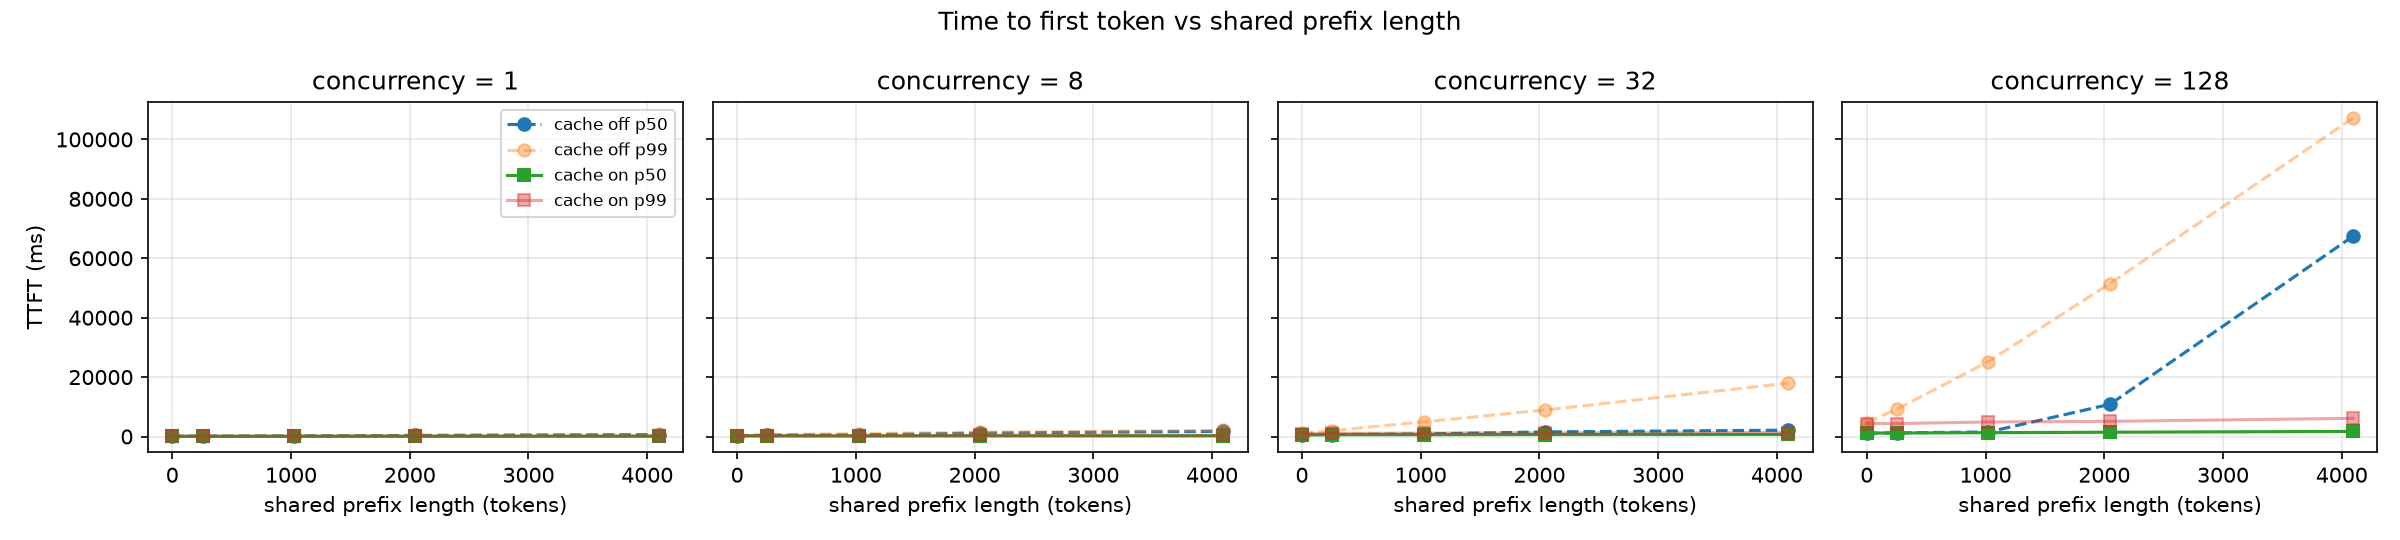
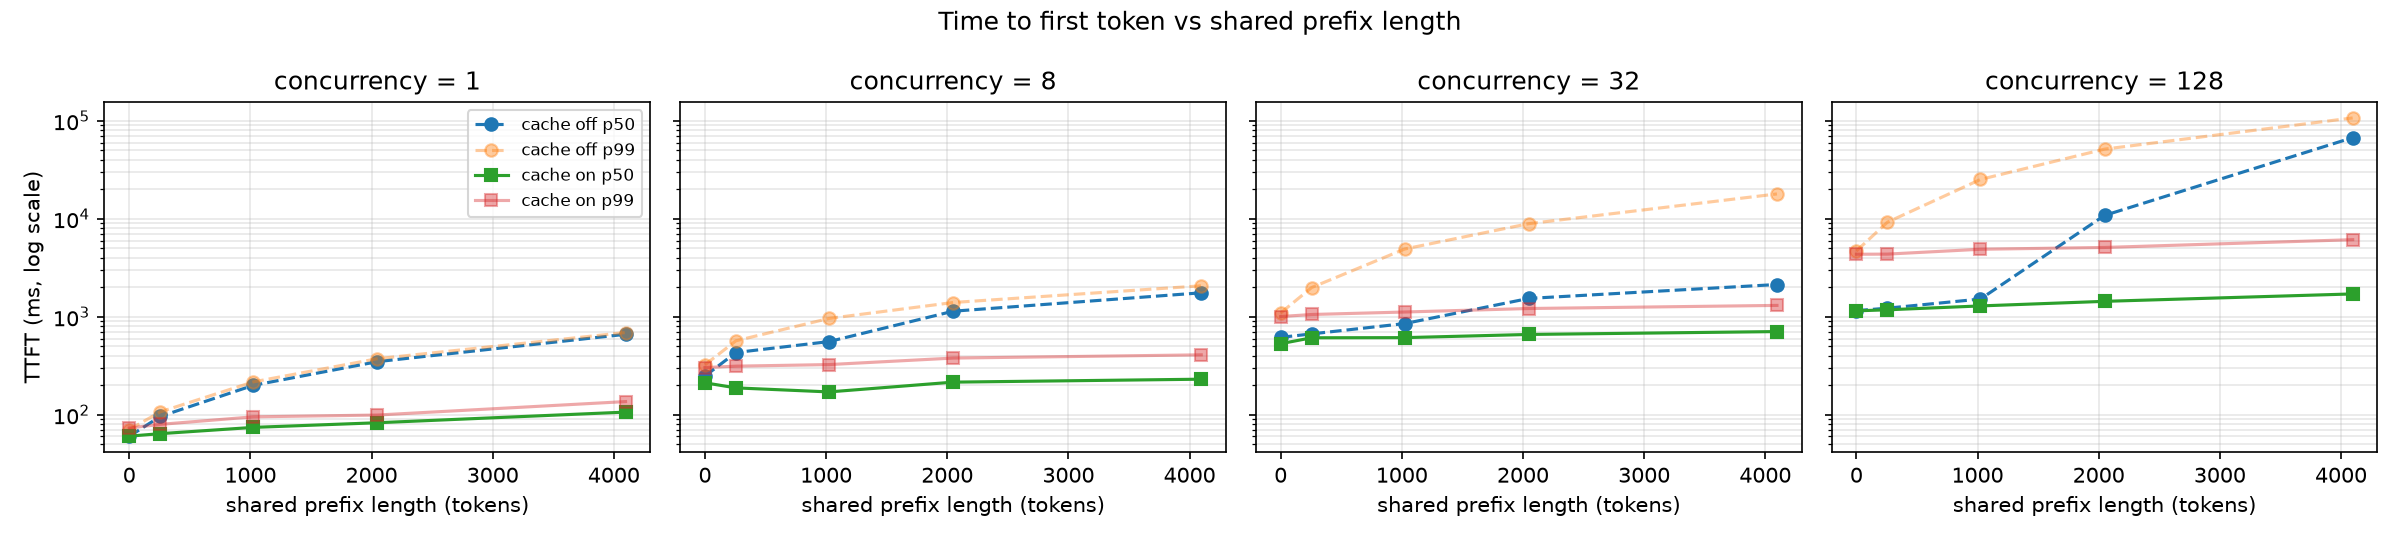
Regenerate figures with log scales, add throughput heatmap and summary

diff --git a/notes.md b/notes.md
@@ -2,7 +2,7 @@
 
 ## 2026-11-08 first manual run (Step 2)
 
-Setup: Qwen2.5-7B-Instruct, RTX GPU on RunPod, vLLM 0.33.0.
+Setup: Qwen2.5-7B-Instruct, NVIDIA A40 on RunPod, vLLM 0.33.0.
 Workload: prefix 1024 / suffix 256 / output 128, 100 prompts, concurrency 16.
 
 Cache OFF: median TTFT 795 ms, p99 2653 ms, 291.5 tok/s, mean TPOT 44.7 ms
